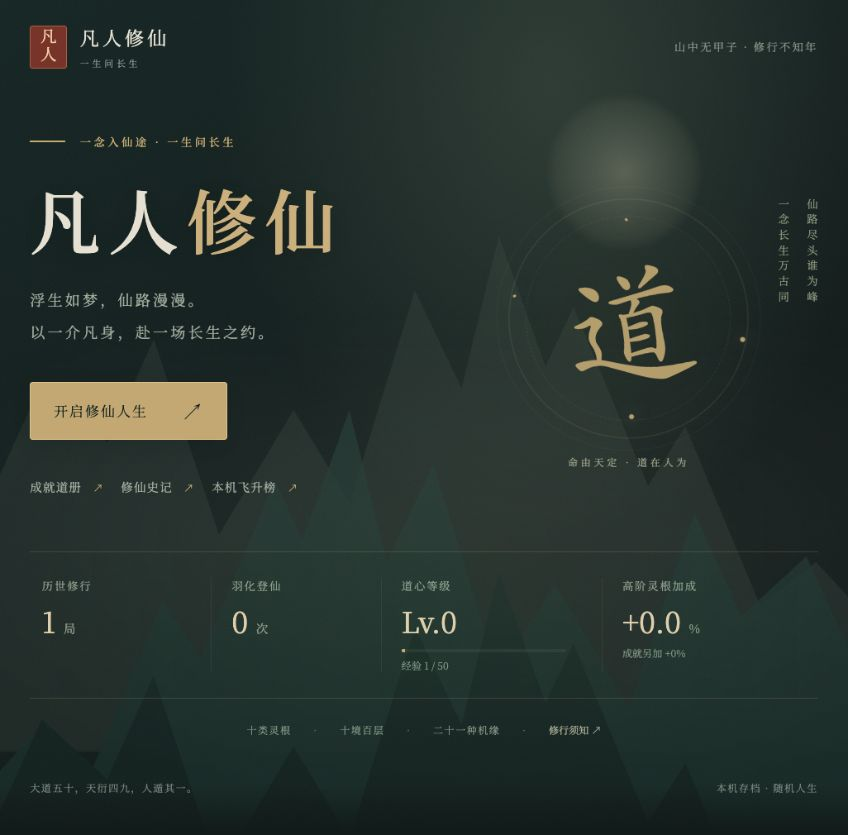
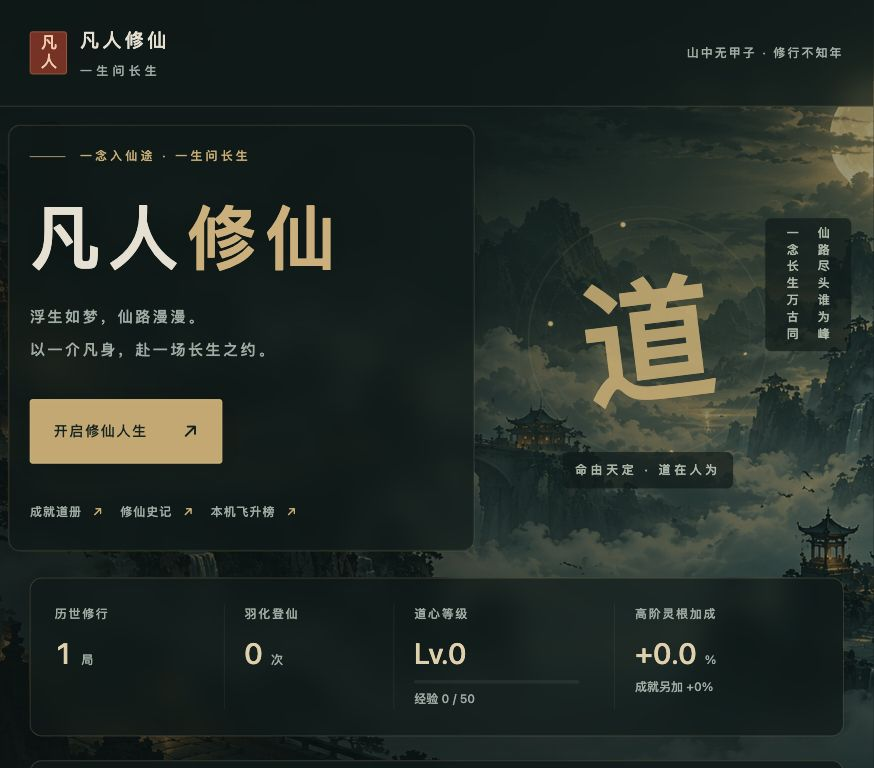
更新预览图

diff --git a/index.html b/index.html
@@ -11,8 +11,6 @@
     <meta property="og:site_name" content="凡人修仙" />
     <meta property="og:title" content="凡人修仙 · 一生问长生" />
     <meta property="og:description" content="一念入仙途，一生问长生。凡人修仙模拟器，以灵根、机缘与岁月推演一段修仙人生。" />
-    <meta property="og:url" content="https://fanren.tommymao.cn/" />
-    <meta property="og:image" content="https://fanren.tommymao.cn/backgrounds/landscape-desktop.png" />
     <meta property="og:image:type" content="image/png" />
     <meta property="og:image:width" content="1672" />
     <meta property="og:image:height" content="941" />
@@ -20,7 +18,6 @@
     <meta name="twitter:card" content="summary_large_image" />
     <meta name="twitter:title" content="凡人修仙 · 一生问长生" />
     <meta name="twitter:description" content="一念入仙途，一生问长生。凡人修仙模拟器，以灵根、机缘与岁月推演一段修仙人生。" />
-    <meta name="twitter:image" content="https://fanren.tommymao.cn/backgrounds/landscape-desktop.png" />
     <meta name="twitter:image:alt" content="月下群山与云海间的修仙楼阁" />
     <link rel="icon" type="image/svg+xml" href="/seal.svg" />
     <link rel="apple-touch-icon" sizes="180x180" href="/apple-touch-icon.png" />

diff --git a/README.md b/README.md
@@ -1,59 +1,121 @@
+<div align="center">
+
 # 凡人修仙 · 一生问长生
 
-浏览器修仙模拟器。保留十档灵根、十境百层、21种随机事件、飞升、20项成就、经验成长、存档、人生回顾和历史；排行榜仅存本机。
+**六岁测灵根，一生赌仙缘。下一世，能不能轮到我飞升？**
 
-## 启动
+一款国风文字修仙模拟器。抽灵根、遇机缘、破境界，看一介凡人的命运在岁月里展开。
 
-需要 Node.js 20.19+ 或 22.12+（建议使用当前 LTS）。
+**十档灵根 · 十境百层 · 21 种随机事件 · 20 项成就**
+
+[看看怎么玩](#怎么玩) · [本地开玩](#本地开玩) · [部署自己的版本](#部署自己的版本)
+
+喜欢这种「再来一世」的快乐，欢迎点亮右上角的 **Star ⭐**，给仙途添一份机缘。
+
+![凡人修仙首页：月下山海，一念入仙途](docs/preview.jpg)
+
+</div>
+
+## 这一世，你会走到哪一步？
+
+开局一测，四灵根。资质平平，仙途未卜。
+
+你可能困在某个境界，眼看寿元将尽；也可能偶得仙草、灵根异变，一场机缘改写此生。等到渡劫之时，是羽化登仙，还是来生再问长生？
+
+这里的乐趣，是看命运一点点揭晓：**抽到好灵根想看看能走多远，抽到差灵根又想赌一次逆天改命。**
+
+| 仙途看点 | 你会遇见什么 |
+| --- | --- |
+| 🎲 六岁测灵 | 从伪灵根到仙体，十档先天资质，每一世都有新的起点 |
+| ⛰ 十境百层 | 从炼体一路向渡劫，突破带来更高境界与更长寿元 |
+| 📜 随机机缘 | 21 种事件，仙草、秘境、灵根异变……机遇与凶险都可能找上门 |
+| ✨ 飞升之路 | 冲击成仙劫、寻找仙人信物，还有极稀有的仙帝传承 |
+| 🔁 再入轮回 | 结算积累道心经验，解锁 20 项成就，为下一世增加高阶灵根的机会 |
+| 🍵 轻松看人生 | 自动推进修炼，可暂停、调整纪事速度、手动存档，再回顾这一生 |
+
+## 游戏实景
+
+以下截图均来自实际运行界面。
+
+### 叩问天命 · 先看看自己的仙缘
+
+![测灵根界面：四灵根开局，叩问此生天命](docs/preview-talent.jpg)
+
+### 此生问道 · 让岁月写下修仙故事
+
+![修炼界面：境界、寿命、修为与逐年人生纪事](docs/preview-game.jpg)
+
+## 怎么玩
+
+1. 点击 **开启修仙人生**，在六岁测出先天灵根。
+2. 点击 **踏入仙途**，观看修炼、突破与随机事件自动发生。
+3. 想细看纪事就暂停，想下次继续就手动存档。
+4. 人生结束后回顾经历、领取经验，再入轮回；飞升后还可在本机飞升榜留下道号。
+
+这是随机人生模拟，修炼与事件自动结算。慢速 / 正常控制纪事展示间隔，无事发生的年份会自动跳过。
+
+**电脑和手机都能玩，无需注册。** 存档、成就、历史和排行榜保存在当前浏览器；清除网站数据会丢失记录，不同设备或域名之间不会自动同步。
+
+## 本地开玩
+
+需要 Node.js 20.19+ 或 22.12+。
 
 ```bash
 npm install
 npm run dev
 ```
 
-打开终端打印的本地地址。
+打开终端打印的本地地址，即可开启第一世修仙人生。无需后端，也不需要 API Key。
+
+其他命令：
 
 ```bash
-npm test       # 与原版核心逐年对照
-npm run build  # TypeScript检查及生产构建
+npm test       # 核心规则与原版逐年对照测试
+npm run build  # TypeScript 检查及生产构建
 npm run preview
 ```
 
-构建结果在 `dist/`，可部署到宝塔等静态网站托管服务：
+## 部署自己的版本
+
+项目是纯静态网页，可部署到静态网站托管服务，或通过宝塔部署到自己的服务器。
 
 1. 执行 `npm run build`。
-2. 将 `dist/` **里面的所有文件和文件夹**上传到网站根目录（例如 `/www/wwwroot/Fan_Ren_Xiu_Xian`），不要额外套一层 `dist`。
-3. 确认宝塔的网站根目录指向该目录，然后访问绑定的域名。
+2. 将 `dist/` **里面的所有文件和文件夹**上传到网站根目录，不要额外套一层 `dist`。
+3. 确认网站根目录指向上传位置。
 
-部署后的目录结构如下，背景图和 `seal.svg` 也需要上传：
+背景图与图标也需要一起上传，构建后的目录大致如下：
 
 ```text
-Fan_Ren_Xiu_Xian/
+dist/
 ├── index.html
 ├── seal.svg
 ├── apple-touch-icon.png
 ├── assets/
-│   ├── index-<构建生成的名称>.js
-│   └── index-<构建生成的名称>.css
+│   ├── index-<hash>.js
+│   └── index-<hash>.css
 └── backgrounds/
     ├── landscape-desktop.png
     └── landscape-mobile.png
 ```
 
-当前没有后端，也不需要 API Key。
+<details>
+<summary>可选：配置链接分享封面</summary>
 
-## 分享预览
+`index.html` 已包含 Open Graph 和 Twitter 的标题、简介及图片说明。仓库不预设站点域名；部署后如需分享封面，请自行添加 `og:url`、`og:image`、`twitter:image` 标签，使用你自己的完整 HTTPS 页面地址和公开图片地址。
 
-`index.html` 中的 Open Graph 和 Twitter 标签指定分享标题、简介和封面。当前站点地址为 `https://fanren.tommymao.cn/`，封面复用 `public/backgrounds/landscape-desktop.png`；iPhone 图标使用 `public/apple-touch-icon.png`。
+默认封面素材为 `public/backgrounds/landscape-desktop.png`。更换图片时，同步更新图片类型、宽高和图片说明；重新构建并上传 `dist/` 的全部内容。社交平台可能缓存旧封面，更换图片建议使用新文件名。
 
-更换封面时，将新的 PNG 或 JPEG 放入 `public/`，同步修改 `og:image`、`twitter:image` 的完整 HTTPS 地址，以及 `og:image:type`、宽高和图片说明。更换域名时也需更新 `og:url` 和图片地址。执行 `npm run build`，将 `dist/` 的全部内容重新上传。图片地址需无需登录即可直接访问。
+</details>
 
-社交平台可能缓存旧预览；更换图片建议使用新文件名并更新标签。实际预览样式以目标平台为准。
+## 想研究一下仙缘？
 
-## 技术与升级
+使用 **Vite + TypeScript + CSS**，模拟核心为独立 JavaScript 模块，界面与模拟逻辑分离。
 
-Vite + TypeScript + CSS；核心使用独立 JavaScript 模块，保留原版计算语义。界面与模拟器解耦，后续可逐步迁移核心类型或替换 Vue/React 界面，而不用重写概率算法。
+- [核心算法文档](docs/ALGORITHMS.md)：灵根概率、突破公式、随机事件、飞升条件与存档格式。
+- [验证记录](docs/VERIFICATION.md)：核心对照测试与浏览器验证范围。
+- `src/core/`：数据表、事件与模拟器。
+- `src/main.ts` / `src/style.css`：界面交互与国风样式。
 
-详细公式、数值表、事件、存档格式、已知原版行为和升级边界见 [核心算法文档](docs/ALGORITHMS.md)。
+欢迎通过 Issue 反馈问题、分享有趣的修仙经历，也欢迎提交 PR。
 
-本机数据通过 localStorage 保存；清除网站数据会丢失记录。原站与新站的存档按域名隔离，不会自动迁移。界面使用系统无衬线字体（macOS 优先苹方，Windows 优先微软雅黑），不请求在线字体；桌面正文以 14px 为主，手机正文以 13px 为主，辅助文字不小于 12px，默认使用中等字重。不同系统的字形会略有差异。
+**愿道友下一世，灵根上佳，仙途坦荡。⭐ 喜欢就 Star，留待下次再入轮回。**
